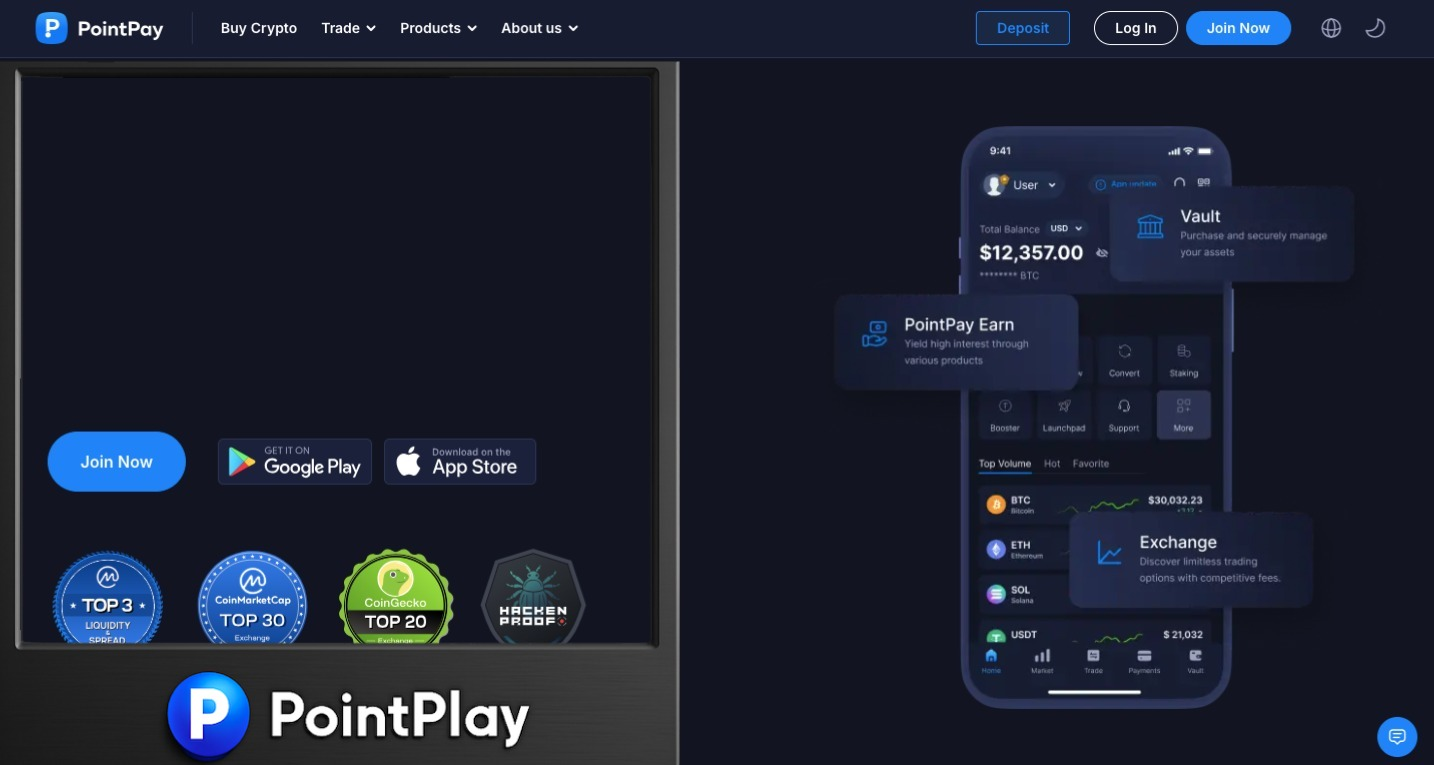
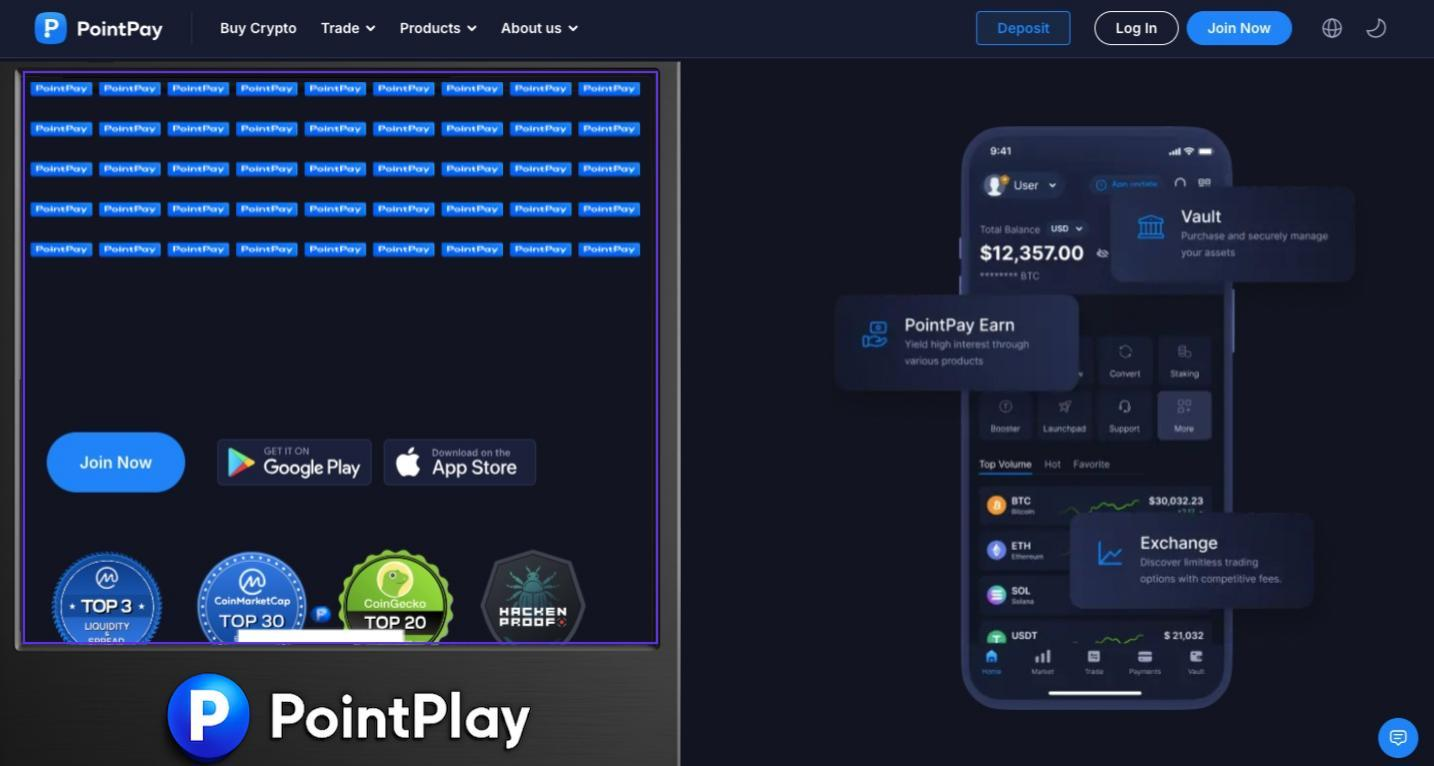
Add files via upload

diff --git a/game.js b/game.js
@@ -1,167 +1,1 @@
-
-const canvas = document.getElementById("gameCanvas");
-const ctx = canvas.getContext("2d");
-
-let score = 0;
-let ballRadius = 8;
-let dx = 4;
-let dy = -4;
-let ballLaunched = false;
-let x;
-let y;
-let paddleHeight = 10;
-let paddleWidth = 100;
-let paddleX = 0;
-let rightPressed = false;
-let leftPressed = false;
-
-const brickRowCount = 5;
-const brickColumnCount = 9;
-const brickWidth = canvas.width / brickColumnCount;
-const brickHeight = 60;
-
-const bricks = [];
-for (let c = 0; c < brickColumnCount; c++) {
-  bricks[c] = [];
-  for (let r = 0; r < brickRowCount; r++) {
-    bricks[c][r] = { x: 0, y: 0, status: 1 };
-  }
-}
-
-document.addEventListener("keydown", keyDownHandler, false);
-document.addEventListener("keyup", keyUpHandler, false);
-document.addEventListener("mousemove", mouseMoveHandler, false);
-document.addEventListener("click", () => {
-  if (!ballLaunched) ballLaunched = true;
-});
-document.addEventListener("keydown", (e) => {
-  if ((e.key === "ArrowUp" || e.key === "Up") && !ballLaunched) ballLaunched = true;
-});
-
-function keyDownHandler(e) {
-  if (e.key === "Right" || e.key === "ArrowRight") rightPressed = true;
-  else if (e.key === "Left" || e.key === "ArrowLeft") leftPressed = true;
-}
-
-function keyUpHandler(e) {
-  if (e.key === "Right" || e.key === "ArrowRight") rightPressed = false;
-  else if (e.key === "Left" || e.key === "ArrowLeft") leftPressed = false;
-}
-
-function mouseMoveHandler(e) {
-  const relativeX = e.clientX - canvas.offsetLeft;
-  if (relativeX > 0 && relativeX < canvas.width) paddleX = relativeX - paddleWidth / 2;
-}
-
-function drawBricks() {
-  const img = new Image();
-  img.src = "block_logo.png";
-  for (let c = 0; c < brickColumnCount; c++) {
-    for (let r = 0; r < brickRowCount; r++) {
-      if (bricks[c][r].status === 1) {
-        const brickX = c * brickWidth;
-        const brickY = r * brickHeight;
-        bricks[c][r].x = brickX;
-        bricks[c][r].y = brickY;
-        ctx.drawImage(img, brickX, brickY, brickWidth, brickHeight);
-      }
-    }
-  }
-}
-
-function drawBall() {
-  const img = new Image();
-  img.src = "ball_logo.png";
-  ctx.drawImage(img, x - ballRadius, y - ballRadius, ballRadius * 2, ballRadius * 2);
-}
-
-function drawPaddle() {
-  ctx.beginPath();
-  ctx.rect(paddleX, canvas.height - paddleHeight, paddleWidth, paddleHeight);
-  ctx.fillStyle = "#fff";
-  ctx.fill();
-  ctx.closePath();
-}
-
-function drawScore() {
-  const scoreDiv = document.getElementById("scoreDisplay");
-  if (scoreDiv) {
-    scoreDiv.innerHTML = "Score: " + score + " pxp";
-  }
-}
-
-function collisionDetection() {
-  for (let c = 0; c < brickColumnCount; c++) {
-    for (let r = 0; r < brickRowCount; r++) {
-      const b = bricks[c][r];
-      if (b.status === 1) {
-        const ballLeft = x - ballRadius;
-        const ballRight = x + ballRadius;
-        const ballTop = y - ballRadius;
-        const ballBottom = y + ballRadius;
-
-        if (
-          ballRight > b.x &&
-          ballLeft < b.x + brickWidth &&
-          ballBottom > b.y &&
-          ballTop < b.y + brickHeight
-        ) {
-          dy = -dy;
-          b.status = 0;
-          score += 10;
-        }
-      }
-    }
-  }
-}
-
-function draw() {
-  ctx.clearRect(0, 0, canvas.width, canvas.height);
-  drawBricks();
-  drawBall();
-  drawPaddle();
-  drawScore();
-
-  let steps = 4;
-  for (let i = 0; i < steps; i++) {
-    if (ballLaunched) {
-      x += dx / steps;
-      y += dy / steps;
-      collisionDetection();
-    } else {
-      x = paddleX + paddleWidth / 2;
-      y = canvas.height - paddleHeight - ballRadius - 2;
-    }
-
-    if (x + dx > canvas.width - ballRadius || x + dx < ballRadius) dx = -dx;
-    if (y + dy < ballRadius) dy = -dy;
-    else if (y + dy > canvas.height - ballRadius) {
-      if (x > paddleX && x < paddleX + paddleWidth) {
-        let hitPoint = x - (paddleX + paddleWidth / 2);
-        dx = hitPoint * 0.3;
-        dx = Math.max(-6, Math.min(6, dx));
-        dy = -Math.abs(dy);
-      } else {
-        ballLaunched = false;
-        score = 0;
-        for (let c = 0; c < brickColumnCount; c++) {
-          for (let r = 0; r < brickRowCount; r++) {
-            bricks[c][r].status = 1;
-          }
-        }
-        x = paddleX + paddleWidth / 2;
-        y = canvas.height - paddleHeight - ballRadius - 2;
-      }
-    }
-
-    dx = Math.max(-6, Math.min(6, dx));
-    dy = Math.max(-6, Math.min(6, dy));
-  }
-
-  if (rightPressed && paddleX < canvas.width - paddleWidth) paddleX += 7;
-  else if (leftPressed && paddleX > 0) paddleX -= 7;
-
-  requestAnimationFrame(draw);
-}
-
-draw();
+// game logic placeholder

diff --git a/index.html b/index.html
@@ -8,7 +8,7 @@
   <link rel="stylesheet" href="style.css">
 </head>
 <body>
-  <canvas id="gameCanvas" width="1204" height="436"></canvas>
+  <canvas id="gameCanvas" width="1210" height="461"></canvas>
   <div id="scoreDisplay">Score: 0 pxp</div>
   <script src="game.js"></script>
 </body>

diff --git a/style.css b/style.css
@@ -10,9 +10,9 @@ body {
 #gameCanvas {
   display: block;
   margin: auto;
-  margin-top: 160px;
-  width: 1204px;
-  height: 436px;
+  margin-top: 155px;
+  width: 1210px;
+  height: 461px;
   z-index: 1;
 }
 
